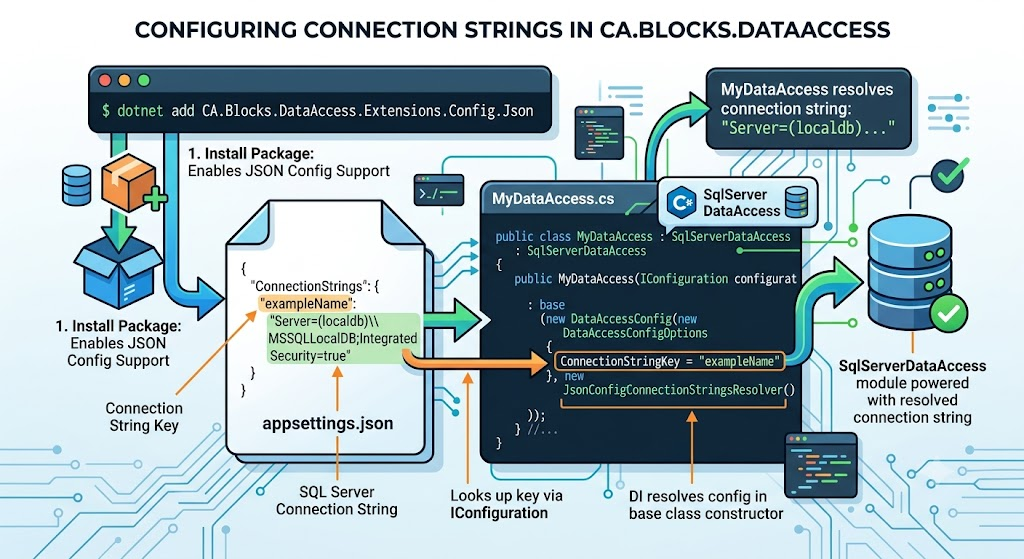
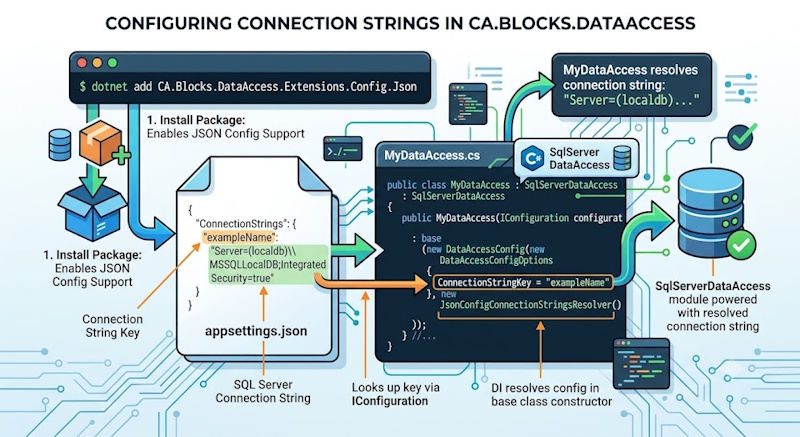
Add some images and play test nav links

diff --git a/docs/index.md b/docs/index.md
@@ -6,7 +6,13 @@ description: "Overview and Quick Start for CA.Blocks.DataAccess."
 ---
 
 # CA.Blocks.DataAccess
-A lightweight, high-performance C# data access layer designed to simplify repository patterns for database operations in .NET applications.
+Built to help developers write clean data access code faster, CA.Blocks.DataAccess removes the friction of setting up custom repositories and database context boilerplate. It integrates seamlessly with .NET Dependency Injection, giving you an expressive, testable foundation for your database queries out of the box.
+
+
+![ado Boiler plate](docs/_assets/impedance_bridge.jpg)
+![ado Boiler plate](docs/_assets/AD_Boilerplate.jpg)
+![using the blocks abstract and distilled and clean data access](docs/_assets/Blocks_Distilled.jpg)
+
 
 ---
 ## ⚡ Quick Start
